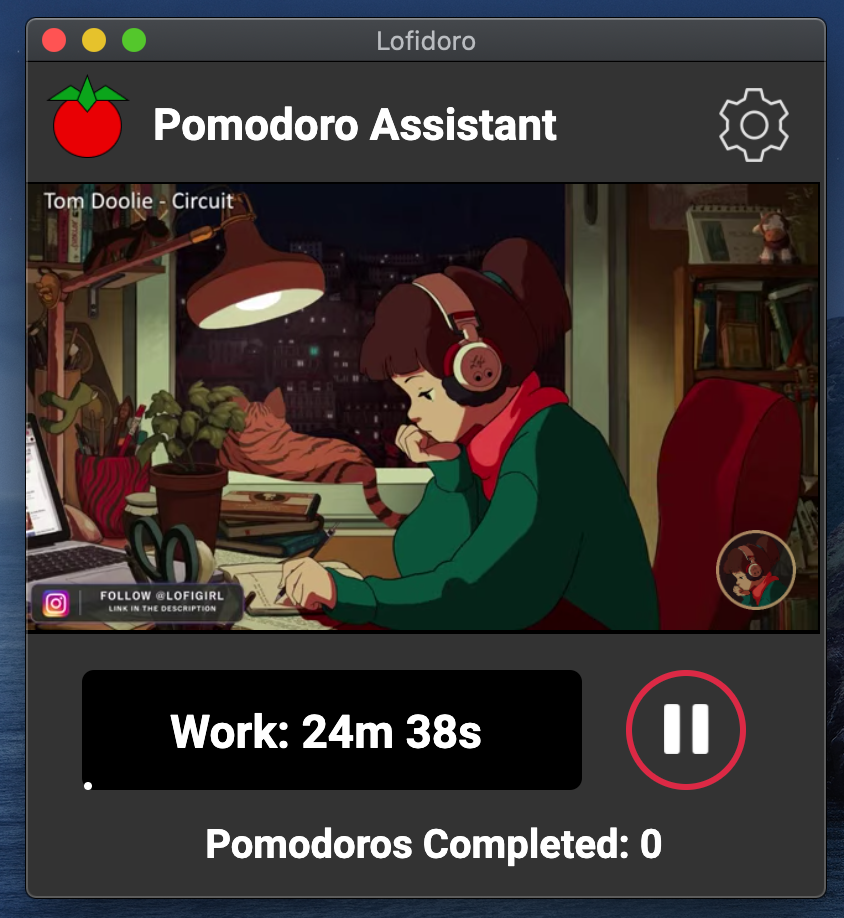
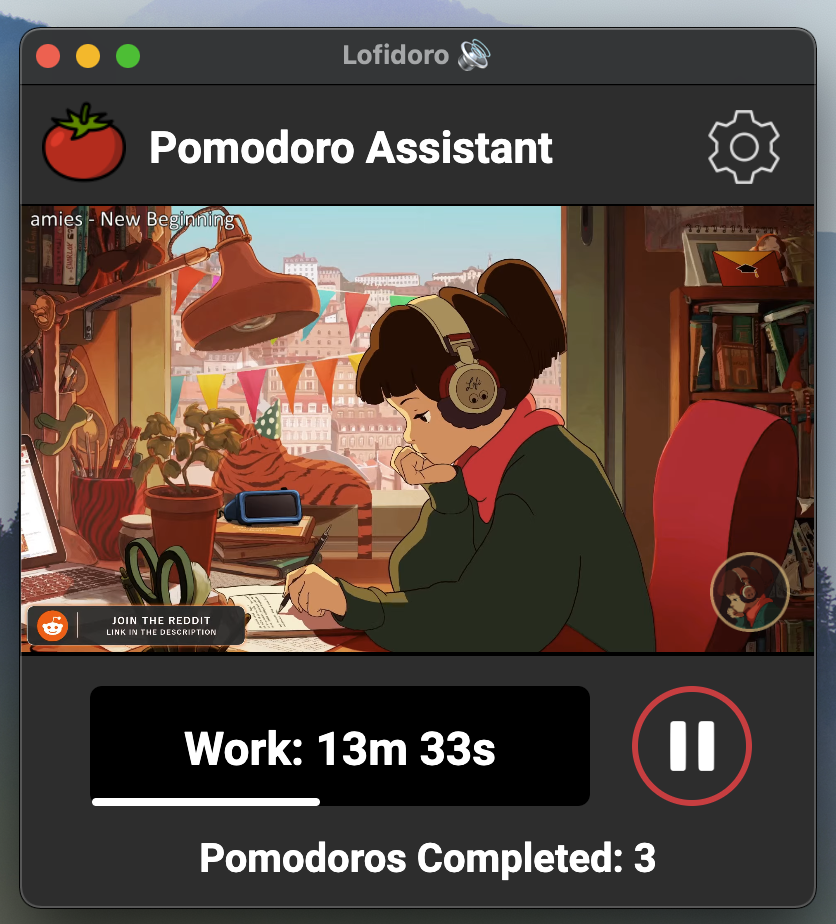
Migrate to Manifest V3

diff --git a/pages/styles.css b/pages/styles.css
@@ -1,5 +1,6 @@
 body {
-    background-color: 404247
+    background-color: 404247;
+    overflow:hidden;
 }
 
 #rect1 {
@@ -16,8 +17,8 @@ body {
     position:absolute;
     width:42px;
     height:42px;
-    left:10px;
-    top:6px;
+    left:11px;
+    top:8px;
 }
 
 #title {
@@ -33,7 +34,7 @@ body {
     text-align: center;
 
     color: #FFFFFF;
-    left:39px;
+    left:40px;
     top:19px;
 }
 
@@ -114,7 +115,7 @@ body {
 #blackbox {
     position:absolute;
     left:0px;
-    top:60px;
+    top:57px;
     width:397px;
     height:226px;
 }
@@ -124,7 +125,7 @@ body {
     width: 250px;
     height: 60px;
     left: 35px;
-    top: 304px;
+    top: 301px;
 
     background: #000000;
     border-radius: 6px;
@@ -134,7 +135,7 @@ body {
     position: absolute;
     width: 300px;
     height: 35px;
-    top: 318px;
+    top: 315px;
     left: 10px;
     font-family: Roboto;
     font-style: normal;
@@ -148,7 +149,7 @@ body {
 #progressbar {
     position:absolute;
     height:4px;
-    top:360px;
+    top:357px;
     left:36px;
     background-color: white;
     border-radius:6px;
@@ -159,7 +160,7 @@ body {
     width: 60px;
     height: 60px;
     left: 306px;
-    top: 304px;
+    top: 301px;
     text-align: center;
     /*justify-content: center;*/
     display: flex;
@@ -185,7 +186,7 @@ body {
     width: 166px;
     height: 31px;
     left: 41px;
-    top: 80px;
+    top: 60px;
 
     font-family: Roboto;
     font-style: normal;
@@ -201,7 +202,7 @@ body {
     position: absolute;
     width: 85px;
     left: 200px;
-    top: 73px;
+    top: 53px;
     background: #000000;
     color: white;
 }
@@ -211,7 +212,7 @@ body {
     width: 166px;
     height: 31px;
     left: 38px;
-    top: 125px;
+    top: 107px;
 
     font-family: Roboto;
     font-style: normal;
@@ -227,7 +228,7 @@ body {
     position: absolute;
     width: 85px;
     left: 200px;
-    top: 117px;
+    top: 99px;
     background: #000000;
     color: white;
 }
@@ -237,7 +238,7 @@ body {
     width: 166px;
     height: 31px;
     left: 36px;
-    top: 170px;
+    top: 150px;
 
     font-family: Roboto;
     font-style: normal;
@@ -252,7 +253,7 @@ body {
 #enableAlerts {
     position: absolute;
     left: 200px;
-    top: 170px;
+    top: 151px;
     width:20px;
     height:20px;
     background:white;
@@ -264,8 +265,8 @@ body {
     position: absolute;
     width: 60px;
     height: 60px;
-    left: 300px;
-    top: 82px;
+    left: 309px;
+    top: 64px;
     font-size:12px;
     /* font-family: Roboto; */
     font-style: normal;
@@ -283,7 +284,7 @@ body {
     width: 258px;
     height: 31px;
     left: 75px;
-    top: 380px;
+    top: 376px;
 
     font-family: Roboto;
     font-style: normal;

diff --git a/pages/index.html b/pages/index.html
@@ -33,7 +33,7 @@
         <h1 id=title>Pomodoro Assistant</h1>
 
         <button class=settings-toggle>
-            <img src="./../img/gear.png" class="gear" alt="Settings"></i>
+            <img src="./../img/gear.png" class="gear" alt="Settings" draggable="false"></i>
         </button>
 
         <div class="settings">

diff --git a/background.js b/background.js
@@ -1,4 +1,4 @@
-chrome.browserAction.onClicked.addListener(function(tab) {
+chrome.action.onClicked.addListener(()=> {
     chrome.windows.create({
         url: chrome.runtime.getURL("/pages/index.html"),
         type:"popup",

diff --git a/README.md b/README.md
@@ -18,3 +18,5 @@ Demo
 ![Demo](./img/demo1.png)
 Settings opened
 ![Settings](./img/demo2.png)
+
+[Tomato icons created by AomAm - Flaticon](https://www.flaticon.com/free-icons/tomato)
